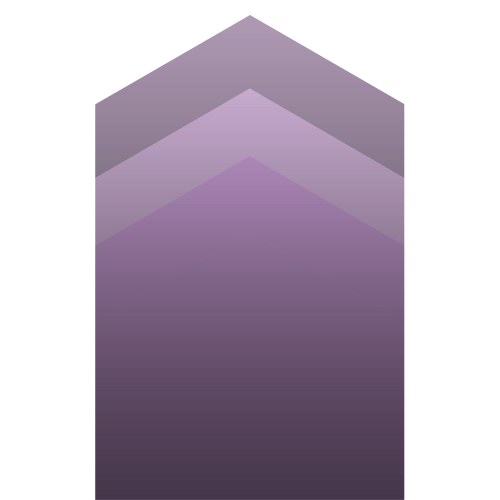
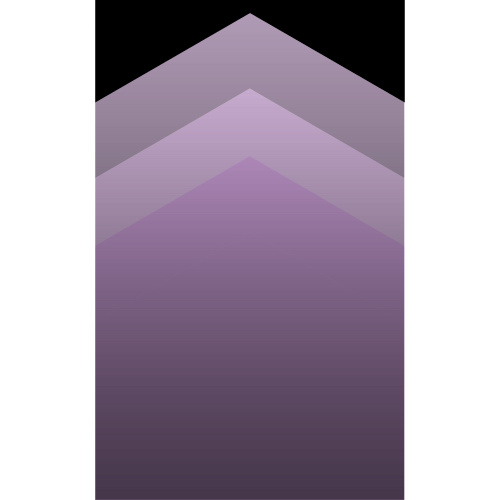
Added main screen

Changed region(s): [[0.18, 0.0, 0.81, 0.21]]

diff --git a/lib/screens/main/body.dart b/lib/screens/main/body.dart
@@ -1,0 +1,68 @@
+import 'package:finance_app/screens/home/home_screen.dart';
+import 'package:flutter/material.dart';
+
+import '../../size_config.dart';
+import '../../components/constants.dart';
+
+class Body extends StatefulWidget {
+  const Body({Key? key}) : super(key: key);
+
+  @override
+  _BodyState createState() => _BodyState();
+}
+
+class _BodyState extends State<Body> {
+  @override
+  Widget build(BuildContext context) {
+    return SafeArea(
+      child: SingleChildScrollView(
+        child: SizedBox(
+          width: double.infinity,
+          child: Column(
+            children: [
+              const SizedBox(height: 20),
+              Row(
+                mainAxisAlignment: MainAxisAlignment.center,
+                children: [
+                  Column(
+                    children: [
+                      Text(
+                        "Verification",
+                        style: TextStyle(
+                          fontSize: getProportionateScreenWidth(30),
+                          color: kTextColor,
+                          fontWeight: FontWeight.bold,
+                        ),
+                        textAlign: TextAlign.center,
+                      ),
+                      const SizedBox(height: 20),
+                      Text(
+                        "Touch ID sensor to verify\ntransaction",
+                        style: TextStyle(
+                          fontSize: getProportionateScreenWidth(20),
+                          color: kSecondaryTextColor,
+                        ),
+                        textAlign: TextAlign.center,
+                      ),
+                    ],
+                  )
+                ],
+              ),
+              InkWell(
+                onTap: () => Navigator.pushNamed(context, HomeScreen.routeName),
+                child: Image.asset(
+                  "assets/images/animation.png",
+                  width: getProportionateScreenWidth(250),
+                ),
+              ),
+              Image.asset(
+                "assets/images/arrows_fade.png",
+                width: getProportionateScreenWidth(228),
+              ),
+            ],
+          ),
+        ),
+      ),
+    );
+  }
+}

diff --git a/lib/components/theme.dart b/lib/components/theme.dart
@@ -1,0 +1,45 @@
+import 'package:flutter/material.dart';
+import 'package:flutter/services.dart';
+
+import 'constants.dart';
+
+ThemeData theme() {
+  return ThemeData(
+    scaffoldBackgroundColor: Colors.black,
+    fontFamily: "Fredoka",
+    appBarTheme: appBarTheme(),
+    textTheme: textTheme(),
+    visualDensity: VisualDensity.adaptivePlatformDensity,
+  );
+}
+
+AppBarTheme appBarTheme() {
+  return AppBarTheme(
+    color: Colors.black,
+    elevation: 0,
+    systemOverlayStyle: SystemUiOverlayStyle.light,
+    iconTheme: const IconThemeData(
+      color: Color.fromARGB(255, 224, 224, 224),
+    ),
+    toolbarTextStyle: const TextTheme(
+      headline6: TextStyle(
+        color: kTextColor,
+        fontSize: 20,
+      ),
+    ).bodyText2,
+    titleTextStyle: const TextTheme(
+      headline6: TextStyle(
+        color: kTextColor,
+        fontSize: 25,
+        fontWeight: FontWeight.bold,
+      ),
+    ).headline6,
+  );
+}
+
+TextTheme textTheme() {
+  return const TextTheme(
+    bodyText1: TextStyle(color: kTextColor),
+    bodyText2: TextStyle(color: kTextColor),
+  );
+}

diff --git a/lib/main.dart b/lib/main.dart
@@ -1,6 +1,7 @@
+import 'package:finance_app/screens/main/body.dart';
+import 'package:finance_app/components/theme.dart';
 import 'routes.dart';
 import 'package:flutter/material.dart';
-
 import 'size_config.dart';
 
 void main() {
@@ -16,9 +17,7 @@ class FinanceApp extends StatelessWidget {
       debugShowCheckedModeBanner: false,
       supportedLocales: const [Locale('en', 'US')],
       title: 'Finance App',
-      theme: ThemeData(
-        primarySwatch: Colors.blue,
-      ),
+      theme: theme(),
       routes: routes,
       home: const LandingPage(),
     );
@@ -36,6 +35,8 @@ class _LandingPageState extends State<LandingPage> {
   @override
   Widget build(BuildContext context) {
     SizeConfig().init(context);
-    return Column();
+    return const Scaffold(
+      body: Body(),
+    );
   }
 }

diff --git a/lib/screens/home/home_screen.dart b/lib/screens/home/home_screen.dart
@@ -1,0 +1,33 @@
+import 'package:flutter/material.dart';
+
+import 'components/body.dart';
+
+class HomeScreen extends StatefulWidget {
+  static String routeName = "/home";
+
+  const HomeScreen({Key? key}) : super(key: key);
+
+  @override
+  _HomeScreenState createState() => _HomeScreenState();
+}
+
+class _HomeScreenState extends State<HomeScreen> {
+  @override
+  Widget build(BuildContext context) {
+    return WillPopScope(
+      onWillPop: () {
+        return Future(() => false);
+      },
+      child: Scaffold(
+        appBar: AppBar(
+          title: const Text("Welcome Back Rohan!"),
+          centerTitle: true,
+        ),
+        drawer: Drawer(
+          child: Column(),
+        ),
+        body: const Body(),
+      ),
+    );
+  }
+}

diff --git a/lib/screens/home/components/body.dart b/lib/screens/home/components/body.dart
@@ -1,0 +1,17 @@
+import 'package:flutter/material.dart';
+
+class Body extends StatefulWidget {
+  static String routeName = "/home";
+
+  const Body({Key? key}) : super(key: key);
+
+  @override
+  _BodyState createState() => _BodyState();
+}
+
+class _BodyState extends State<Body> {
+  @override
+  Widget build(BuildContext context) {
+    return Column();
+  }
+}

diff --git a/lib/routes.dart b/lib/routes.dart
@@ -1,3 +1,6 @@
+import 'package:finance_app/screens/home/home_screen.dart';
 import 'package:flutter/widgets.dart';
 
-final Map<String, WidgetBuilder> routes = {};
+final Map<String, WidgetBuilder> routes = {
+  HomeScreen.routeName: (context) => const HomeScreen(),
+};

diff --git a/lib/components/constants.dart b/lib/components/constants.dart
@@ -1,0 +1,5 @@
+import 'package:flutter/material.dart';
+
+const kPrimaryColor = Color(0xFFe99aff);
+const kTextColor = Color.fromARGB(255, 224, 224, 224);
+const kSecondaryTextColor = Color.fromARGB(255, 179, 179, 179);
